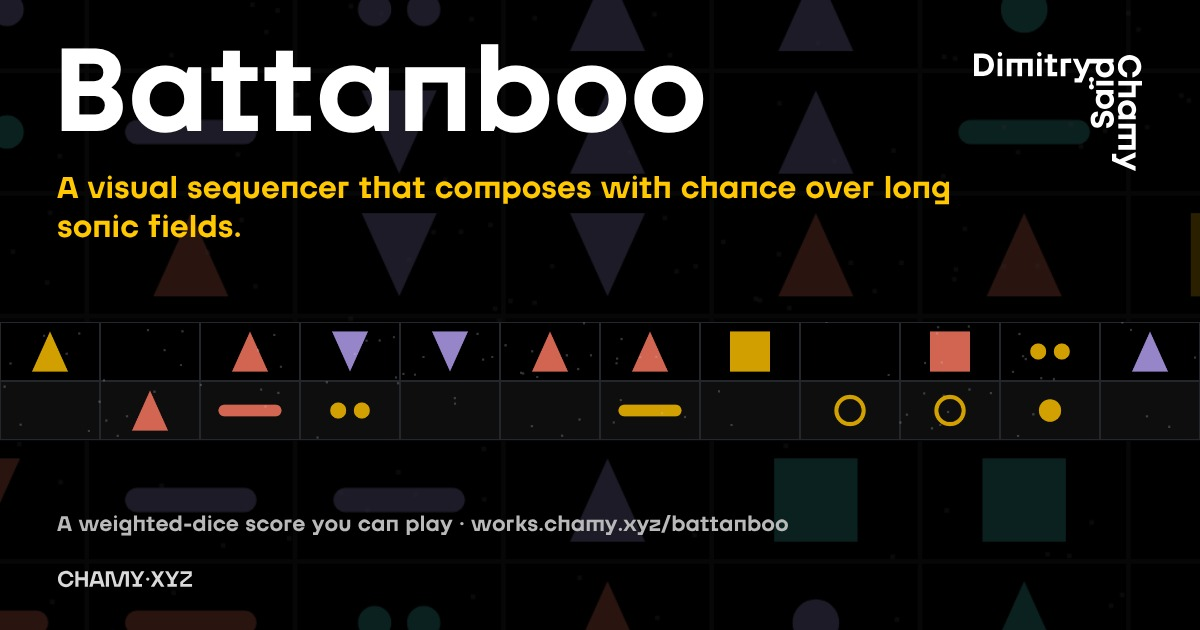
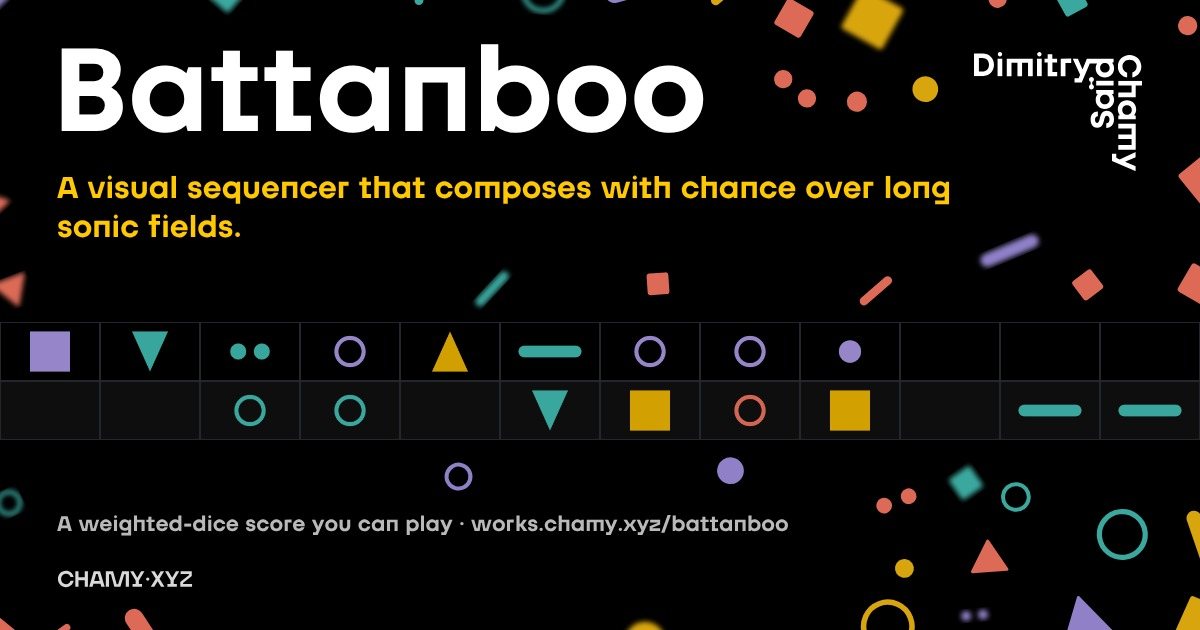
release Battanboo 0.5.4: share card marks
Claude-Session: https://claude.ai/code/session_01UTGHCa1JBBoFd9AGz3PbXb

diff --git a/battanboo/index.html b/battanboo/index.html
@@ -2,7 +2,7 @@
 <html lang="en"><head><meta charset="utf-8"><meta name="viewport" content="width=device-width,initial-scale=1,viewport-fit=cover"><style>:root{color-scheme:light;padding-top:env(safe-area-inset-top,0px);padding-bottom:env(safe-area-inset-bottom,0px)}body{margin:0;font:14px system-ui,sans-serif}img{max-width:100%}[hidden]{display:none!important}</style>
 <link rel="icon" href="icons/icon.svg" type="image/svg+xml"><link rel="icon" href="icons/icon-32.png" type="image/png" sizes="32x32"><link rel="apple-touch-icon" href="icons/icon-180.png"><link rel="manifest" href="manifest.webmanifest"><meta name="theme-color" content="#15171A">
 <meta name="description" content="A visual sequencer that composes with chance over long sonic fields."><meta property="og:type" content="website"><meta property="og:site_name" content="CHAMY·XYZ"><meta property="og:title" content="Battanboo"><meta property="og:description" content="A visual sequencer that composes with chance over long sonic fields."><meta property="og:url" content="https://works.chamy.xyz/battanboo/"><meta property="og:image" content="https://works.chamy.xyz/battanboo/og.jpg"><meta property="og:image:width" content="1200"><meta property="og:image:height" content="630"><meta property="og:image:alt" content="BATTANBOO in white beside the Dimitry Saïd Chamy namemark, and a score of coloured marks on a black grid"><meta name="twitter:card" content="summary_large_image"><meta name="twitter:title" content="Battanboo"><meta name="twitter:description" content="A visual sequencer that composes with chance over long sonic fields."><meta name="twitter:image" content="https://works.chamy.xyz/battanboo/og.jpg">
-<script>window.__BUILD__="20261112043413";window.__VERSION__="0.5.4";window.__NOTES__=[{"v": "0.5.4", "date": "11 Nov 2026", "items": [{"kind": "change", "text": "The share card (the picture shown when the link is shared) follows the layout of the Digital Broadsides: black, the name large at the top left, the line \"A visual sequencer that composes with chance over long sonic fields.\" in yellow, the corner namemark at the top right, a strip of the score itself across the middle, and the CHAMY·XYZ word at the bottom left. Behind it all, the marks of the score are blown up large and dim as a background."}, {"kind": "new", "text": "Field sounds can move on their own. Hold a field sound for its ring and tap Record, then drag it along any path. Let go, and that path becomes a movement whose length you set separately from how fast your hand went: a number of bars, beats or seconds (it starts at 4 bars). It can loop, go back and forth, or play once and stay. Smooth, Simplify and Steps shape it. The path shows as a faint line on the field."}, {"kind": "new", "text": "Random movement for field sounds: Wander in the ring, or Random in the sound's settings. The sound drifts in a closed random loop around where it was; New random shape rolls another, Range sets how far (small, medium, wide)."}, {"kind": "change", "text": "A field sound's ring is now the same halo ring as in Current: a Sound dot that opens its own ring (the pad, or any colour's sound), Settings, Record, Wander, Nudge, and in the lower left Duplicate (a copy beside it with the same sound, settings and movement) and in the lower right Take away."}, {"kind": "change", "text": "Clear all moved out of the sound's ring, because it affects every sound: it is a button beside the cube at the bottom of the field. Undo brings the sounds back."}, {"kind": "fix", "text": "Undo and redo now cover the field too. Putting a sound down, moving it, changing it, taking it away, or Clear all can each be stepped back and forward with the same buttons (and Ctrl or Cmd+Z) as the grid. Before, Clear all on the field had no way back."}, {"kind": "new", "text": "Field sounds are no longer one fixed pad. Hold a field sound (or right-click it) for the ring and tap the note (♪): choose its sound (the built-in pad, or the sound of any colour from the Sounds pane, held while you hold), and set its own level, wet, tone and pitch. \"New sounds start with this sound\" makes it the default; the same choice is in the Sounds pane under Field."}, {"kind": "new", "text": "The field has its own room. In the Sounds pane: Dry booth, Small room, Wooden hall, Cathedral, Cave, Open air, and sliders for Size, Decay, Damping and Wet."}, {"kind": "change", "text": "Muting the field fades it out over 4 seconds, and unmuting fades it back in, like the speaker. A sweep crosses the M button while it goes."}, {"kind": "change", "text": "Hold on the field is the same button as on the grid: the hand at the top right. Touching the field switches it to the closed hand (Hold) by itself, and touching the grid switches it back to the finger; tap it any time to choose one shot or Hold. The crossed infinity button is gone."}, {"kind": "fix", "text": "Turning Hold off on a field sound left no way to turn it back on, because the sound vanished when you let go. An infinity button with a slash now sits beside the cube whenever Hold is off; tap it to turn Hold on."}, {"kind": "change", "text": "On the field, left, near and right stay in the lower corners and middle, and the cube button sits centred just above \"near\", as big as the icons in the lower right menu."}, {"kind": "change", "text": "Wall and Floor are one cube button on the field. The cube shows the face you are looking at (the walls, or the floor) and a dot where you stand; tap it to switch."}, {"kind": "new", "text": "Hold and Clear moved onto the sounds. Hold a field sound, or right-click it, for the ring: nudge it, take it away, keep sounds held (the infinity mark), clear all."}, {"kind": "change", "text": "The MIDI button is now a MIDI plug symbol in the lower right menu, just under the clock. The text buttons by the stage edge and in the display footer are gone."}, {"kind": "change", "text": "The Wall, Floor, Hold and Clear switches on the field are a small quiet strip in the pad's bottom right corner, not a row of big pills. Wall and Floor are icons."}, {"kind": "fix", "text": "With more than four colours on a phone, the colour swatches beside the pad were 14 px slivers. They are now a two-column grid of real swatches."}, {"kind": "change", "text": "The separate Field display is gone. Its controls (what your finger plays, size of the marks, look of the effects) are now at the foot of Dice and air."}, {"kind": "fix", "text": "Every heads-up display now starts at the top. Before, the ones with less in them floated to the middle and the others sat at the top, with no reason you could see."}, {"kind": "new", "text": "MIDI learn now happens on the controls. Tap MIDI (bottom right of every heads-up display) and every control a knob can move gets a coloured shape. Tap a shape, move a knob: its number appears inside. Tap MIDI again and the mappings keep working; tap it again to see them, the unmapped ones left blank. × on a shape unmaps it."}, {"kind": "new", "text": "MIDI knows which controller is which. Switch several devices on or off in the learn panel, and two controllers can use the same knob numbers for different things. Mappings made before this still work, from any device."}, {"kind": "change", "text": "Form: Movements is now a large heading, and on a wide screen the movements sit in a right-hand column with everything else on the left."}, {"kind": "change", "text": "On a very large monitor the heads-up panes stay a centred column instead of stretching edge to edge, so sliders never run the whole width."}, {"kind": "fix", "text": "A held sound (Rubbed rim, Scraping glass, Sustain, Air, Crack run) could ring forever when Air was above zero, on the grid as well as on the play button, because its first grain was never given a length. Every grain now has one. Muting a colour also silences it at once, so a ringing sound stops when you press M."}, {"kind": "fix", "text": "The play button on a held sound (Rubbed rim, for one) no longer rings forever. It sounds for about a second and a half, then lets go."}, {"kind": "change", "text": "The line across each colour in the Mixer is now that colour's real sound, drawn live: a bell, a pad and a drum each have their own shape, and it follows the level you set. Before, it was one stock wave that only jumped when a note played."}, {"kind": "new", "text": "A play button to the left of each colour in the Mixer, the same size as the grid button above it. It sounds that colour at the level it is set to (so mute, solo and the crossfader count), a quick way to hear and balance the levels."}, {"kind": "change", "text": "The Dice and air pane and the Sounds pane use wide screens like the Play pane: the Weave controls beside the touch surfaces, and the colour sounds in two columns beside the sound sets."}, {"kind": "new", "text": "A MIDI pane in the heads-up display. Connect your controller, press Learn beside any control (the crossfader, volume, tone, air, space, morph, holds, repeat, tempo, the field or any colour's level), move a knob or slider once, and it is mapped. It shows the number of the last control you moved, so you can see what your device sends. One tap sets a MIDI Fighter Twister's 16 knobs to the main controls and the eight colours. Mappings are kept between visits. Needs Chrome on a Mac or a PC (Safari on iPhone and iPad has no MIDI)."}, {"kind": "change", "text": "The Mixer's MIDI button now opens that pane."}, {"kind": "change", "text": "The Play pane fits its space. Wide: the numbers and controls on the left, the four lines stacked on the right, each with more height to move in. Medium: controls on the left and Auto dice on the right, with the four lines as a 2 by 2 below. Narrow: one column with taller lines."}, {"kind": "fix", "text": "The small type in the Mixer (pad names and values, colour names and percentages) is larger and grows with the screen."}, {"kind": "fix", "text": "With the field switched off, its held notes stay visible as faint dots over the grid, so you can see where they are, as the grid's marks do when the grid is off. Taps still go to the grid."}, {"kind": "fix", "text": "Closing the field panel no longer drops the field's held voices. They keep sounding; Clear, or a double-tap on a note, lets them go."}, {"kind": "fix", "text": "The field's Wall, Floor, Hold and Clear buttons: the lit ones were unreadable (colour clash). They are readable now, smaller, in one row at the bottom middle of the field instead of the top left, and the field's left, low and right words sit above them. The space around the buttons no longer blocks taps on the cells."}, {"kind": "change", "text": "In the Mixer's crossfader, the Grid and Field percentages now sit at their own ends of the slider, beside their icons, instead of in the middle."}, {"kind": "new", "text": "Every colour has its own sound. With more than four colours, colours 5 to 8 are a drum kit (each row a different drum), a goblet (crystal), a rubbed rim and a spill of shards, so no sound repeats. Colours 1 to 4 stay the grid's four voices, unchanged. Your choice for each colour is now remembered between visits."}, {"kind": "new", "text": "In the Sounds pane, each colour has its own chooser. Sounds are grouped (voices of the grid; struck: one hit that rings away; held: sounds while you hold; banks: a different sound on each row), each with a plain line on what it is, and a + to bring in your own."}, {"kind": "fix", "text": "Reloading with more than four colours left colours 5 to 8 empty in the Mixer and playing colour 1's sound. They come back with their own sounds now."}, {"kind": "change", "text": "The crossfader's mode button is now a square icon (Blend, Fade, Free), the same size as M and S."}, {"kind": "fix", "text": "The coloured line across each Mixer row fades out under the name and the percentage, and the type has a soft dark edge, so both read clearly."}, {"kind": "change", "text": "Note names sit in the top-left corner of their cell. The names chooser is a dropdown like the scale and root: No names, Names on the first row, Names on every cell, Names on hover. It no longer changes width."}, {"kind": "change", "text": "The two frame grips are now just dots, set the same small distance inside each edge of the frame, with no handle shape behind them. The area you can grab is the same, and invisible."}, {"kind": "new", "text": "Each colour row in the Mixer now names its sound next to the number (Synth: pluck, Glass, Drums...), and the name follows when you change the sound."}, {"kind": "change", "text": "Wall, Floor, Hold and Clear now sit on the field itself, in its top-left corner, whenever the field is on, so you change the field where you see it. The Field pane keeps who you are touching, the floor pitch, the size of the marks and the look of the effects."}, {"kind": "change", "text": "The Free / Blend / Fade buttons at the foot of the Mixer are gone; the mode button beside the crossfader does their job."}, {"kind": "change", "text": "The scale, root and note names, which the grid and the field share, moved to the Mixer, on the right of the Free / Blend / Fade / MIDI row."}, {"kind": "new", "text": "The grid and field icons sit either side of the crossfader at the top of the Mixer. Tap one and the crossfader goes all the way to that side (that one at 100%, the other away); double-tap either to put it back in the middle. A button to the right of them chooses how the two cross: Blend (both full in the middle), Fade (opposed, 50 and 50 in the middle) or Free (no crossfade)."}, {"kind": "new", "text": "The A|B crossfader now also sits at the top of the Mixer, the same one as on the tempo bar, with the grid and field percentages in the middle. The colour bars and the Field bar dim as the crossfader turns them down, so you can see why something is quiet."}, {"kind": "fix", "text": "The Field bar had the same limit as the colour bars (it could only reach what the crossfader let through). It now runs its full length."}, {"kind": "fix", "text": "The four colour sliders (1 to 4) could not be pulled past about 13%. They were scaled by the A|B crossfader, so with it toward the field the whole slider shrank to what the crossfader let through. They now always run the full length and set the colour's own level; the crossfader still decides how much of it you hear."}, {"kind": "change", "text": "Tapping the Field button a second time while the field is in front dismisses the field and returns to the grid."}, {"kind": "fix", "text": "The rings, blooms and specks sat off to the side of the shapes that made them, in play and in Cinema, more so on a stretched frame. The effects layer was being squeezed to the grid's width; it now keeps its true size, so every effect is centred on its shape."}, {"kind": "fix", "text": "The play lines (the bars that sweep across the grid) now run on past its edge, across the whole screen, in play and in Cinema, as the rings and blooms do."}, {"kind": "fix", "text": "The rings and blooms that answer each sound are no longer cut off at the edge of the grid, in play and in Cinema: the effects layer reaches beyond the grid on every side, so they spread out freely."}, {"kind": "new", "text": "Cinema. In full screen, after five quiet seconds, the interface fades away and only the shapes, the play lines and the effects remain, on black, with the grid lines running on to the edges of the screen. Move the mouse, touch the screen or press a key and everything comes back (that first touch only wakes it; it plays nothing)."}, {"kind": "fix", "text": "The frame grips now sit on the frame itself, and the frame can be stretched to the full width of a large screen. Full screen no longer inherits a squeezed frame (that made the grid tall and pushed the bars off the screen); it always uses the whole screen."}, {"kind": "new", "text": "On a wide screen (900 px and up) a grip sits on each side of the frame. Drag either one to stretch or squeeze the frame (it stays centred, from 640 px up to the full width); double-click for full width; with a grip focused, the arrow keys step it, Home is narrowest and End is full width. The width is remembered."}, {"kind": "new", "text": "With the HUD open, tap the Grid or Field button again to close it, or tap the bare background outside the frame (a drag does not close it)."}, {"kind": "change", "text": "The Weave preset in use is ringed in bright yellow (a border, not a fill)."}, {"kind": "fix", "text": "The opening's shapes are sharp by the time they stop, and it is the interface that comes into focus behind them, from blurred to sharp as it fades in."}, {"kind": "fix", "text": "No more sideways jump when the real shapes take over: the opening's canvas is now measured from its own box, so on screens with a scrollbar it lines up with the grid exactly."}]}]</script>
+<script>window.__BUILD__="20261112043548";window.__VERSION__="0.5.4";window.__NOTES__=[{"v": "0.5.4", "date": "11 Nov 2026", "items": [{"kind": "change", "text": "The share card (the picture shown when the link is shared) follows the layout of the Digital Broadsides: black, the name large at the top left, the line \"A visual sequencer that composes with chance over long sonic fields.\" in yellow, the corner namemark at the top right, a strip of the score itself across the middle, and the CHAMY·XYZ word at the bottom left. Around the words, the marks of the score are scattered and turned, some soft, as on the launch cover."}, {"kind": "new", "text": "Field sounds can move on their own. Hold a field sound for its ring and tap Record, then drag it along any path. Let go, and that path becomes a movement whose length you set separately from how fast your hand went: a number of bars, beats or seconds (it starts at 4 bars). It can loop, go back and forth, or play once and stay. Smooth, Simplify and Steps shape it. The path shows as a faint line on the field."}, {"kind": "new", "text": "Random movement for field sounds: Wander in the ring, or Random in the sound's settings. The sound drifts in a closed random loop around where it was; New random shape rolls another, Range sets how far (small, medium, wide)."}, {"kind": "change", "text": "A field sound's ring is now the same halo ring as in Current: a Sound dot that opens its own ring (the pad, or any colour's sound), Settings, Record, Wander, Nudge, and in the lower left Duplicate (a copy beside it with the same sound, settings and movement) and in the lower right Take away."}, {"kind": "change", "text": "Clear all moved out of the sound's ring, because it affects every sound: it is a button beside the cube at the bottom of the field. Undo brings the sounds back."}, {"kind": "fix", "text": "Undo and redo now cover the field too. Putting a sound down, moving it, changing it, taking it away, or Clear all can each be stepped back and forward with the same buttons (and Ctrl or Cmd+Z) as the grid. Before, Clear all on the field had no way back."}, {"kind": "new", "text": "Field sounds are no longer one fixed pad. Hold a field sound (or right-click it) for the ring and tap the note (♪): choose its sound (the built-in pad, or the sound of any colour from the Sounds pane, held while you hold), and set its own level, wet, tone and pitch. \"New sounds start with this sound\" makes it the default; the same choice is in the Sounds pane under Field."}, {"kind": "new", "text": "The field has its own room. In the Sounds pane: Dry booth, Small room, Wooden hall, Cathedral, Cave, Open air, and sliders for Size, Decay, Damping and Wet."}, {"kind": "change", "text": "Muting the field fades it out over 4 seconds, and unmuting fades it back in, like the speaker. A sweep crosses the M button while it goes."}, {"kind": "change", "text": "Hold on the field is the same button as on the grid: the hand at the top right. Touching the field switches it to the closed hand (Hold) by itself, and touching the grid switches it back to the finger; tap it any time to choose one shot or Hold. The crossed infinity button is gone."}, {"kind": "fix", "text": "Turning Hold off on a field sound left no way to turn it back on, because the sound vanished when you let go. An infinity button with a slash now sits beside the cube whenever Hold is off; tap it to turn Hold on."}, {"kind": "change", "text": "On the field, left, near and right stay in the lower corners and middle, and the cube button sits centred just above \"near\", as big as the icons in the lower right menu."}, {"kind": "change", "text": "Wall and Floor are one cube button on the field. The cube shows the face you are looking at (the walls, or the floor) and a dot where you stand; tap it to switch."}, {"kind": "new", "text": "Hold and Clear moved onto the sounds. Hold a field sound, or right-click it, for the ring: nudge it, take it away, keep sounds held (the infinity mark), clear all."}, {"kind": "change", "text": "The MIDI button is now a MIDI plug symbol in the lower right menu, just under the clock. The text buttons by the stage edge and in the display footer are gone."}, {"kind": "change", "text": "The Wall, Floor, Hold and Clear switches on the field are a small quiet strip in the pad's bottom right corner, not a row of big pills. Wall and Floor are icons."}, {"kind": "fix", "text": "With more than four colours on a phone, the colour swatches beside the pad were 14 px slivers. They are now a two-column grid of real swatches."}, {"kind": "change", "text": "The separate Field display is gone. Its controls (what your finger plays, size of the marks, look of the effects) are now at the foot of Dice and air."}, {"kind": "fix", "text": "Every heads-up display now starts at the top. Before, the ones with less in them floated to the middle and the others sat at the top, with no reason you could see."}, {"kind": "new", "text": "MIDI learn now happens on the controls. Tap MIDI (bottom right of every heads-up display) and every control a knob can move gets a coloured shape. Tap a shape, move a knob: its number appears inside. Tap MIDI again and the mappings keep working; tap it again to see them, the unmapped ones left blank. × on a shape unmaps it."}, {"kind": "new", "text": "MIDI knows which controller is which. Switch several devices on or off in the learn panel, and two controllers can use the same knob numbers for different things. Mappings made before this still work, from any device."}, {"kind": "change", "text": "Form: Movements is now a large heading, and on a wide screen the movements sit in a right-hand column with everything else on the left."}, {"kind": "change", "text": "On a very large monitor the heads-up panes stay a centred column instead of stretching edge to edge, so sliders never run the whole width."}, {"kind": "fix", "text": "A held sound (Rubbed rim, Scraping glass, Sustain, Air, Crack run) could ring forever when Air was above zero, on the grid as well as on the play button, because its first grain was never given a length. Every grain now has one. Muting a colour also silences it at once, so a ringing sound stops when you press M."}, {"kind": "fix", "text": "The play button on a held sound (Rubbed rim, for one) no longer rings forever. It sounds for about a second and a half, then lets go."}, {"kind": "change", "text": "The line across each colour in the Mixer is now that colour's real sound, drawn live: a bell, a pad and a drum each have their own shape, and it follows the level you set. Before, it was one stock wave that only jumped when a note played."}, {"kind": "new", "text": "A play button to the left of each colour in the Mixer, the same size as the grid button above it. It sounds that colour at the level it is set to (so mute, solo and the crossfader count), a quick way to hear and balance the levels."}, {"kind": "change", "text": "The Dice and air pane and the Sounds pane use wide screens like the Play pane: the Weave controls beside the touch surfaces, and the colour sounds in two columns beside the sound sets."}, {"kind": "new", "text": "A MIDI pane in the heads-up display. Connect your controller, press Learn beside any control (the crossfader, volume, tone, air, space, morph, holds, repeat, tempo, the field or any colour's level), move a knob or slider once, and it is mapped. It shows the number of the last control you moved, so you can see what your device sends. One tap sets a MIDI Fighter Twister's 16 knobs to the main controls and the eight colours. Mappings are kept between visits. Needs Chrome on a Mac or a PC (Safari on iPhone and iPad has no MIDI)."}, {"kind": "change", "text": "The Mixer's MIDI button now opens that pane."}, {"kind": "change", "text": "The Play pane fits its space. Wide: the numbers and controls on the left, the four lines stacked on the right, each with more height to move in. Medium: controls on the left and Auto dice on the right, with the four lines as a 2 by 2 below. Narrow: one column with taller lines."}, {"kind": "fix", "text": "The small type in the Mixer (pad names and values, colour names and percentages) is larger and grows with the screen."}, {"kind": "fix", "text": "With the field switched off, its held notes stay visible as faint dots over the grid, so you can see where they are, as the grid's marks do when the grid is off. Taps still go to the grid."}, {"kind": "fix", "text": "Closing the field panel no longer drops the field's held voices. They keep sounding; Clear, or a double-tap on a note, lets them go."}, {"kind": "fix", "text": "The field's Wall, Floor, Hold and Clear buttons: the lit ones were unreadable (colour clash). They are readable now, smaller, in one row at the bottom middle of the field instead of the top left, and the field's left, low and right words sit above them. The space around the buttons no longer blocks taps on the cells."}, {"kind": "change", "text": "In the Mixer's crossfader, the Grid and Field percentages now sit at their own ends of the slider, beside their icons, instead of in the middle."}, {"kind": "new", "text": "Every colour has its own sound. With more than four colours, colours 5 to 8 are a drum kit (each row a different drum), a goblet (crystal), a rubbed rim and a spill of shards, so no sound repeats. Colours 1 to 4 stay the grid's four voices, unchanged. Your choice for each colour is now remembered between visits."}, {"kind": "new", "text": "In the Sounds pane, each colour has its own chooser. Sounds are grouped (voices of the grid; struck: one hit that rings away; held: sounds while you hold; banks: a different sound on each row), each with a plain line on what it is, and a + to bring in your own."}, {"kind": "fix", "text": "Reloading with more than four colours left colours 5 to 8 empty in the Mixer and playing colour 1's sound. They come back with their own sounds now."}, {"kind": "change", "text": "The crossfader's mode button is now a square icon (Blend, Fade, Free), the same size as M and S."}, {"kind": "fix", "text": "The coloured line across each Mixer row fades out under the name and the percentage, and the type has a soft dark edge, so both read clearly."}, {"kind": "change", "text": "Note names sit in the top-left corner of their cell. The names chooser is a dropdown like the scale and root: No names, Names on the first row, Names on every cell, Names on hover. It no longer changes width."}, {"kind": "change", "text": "The two frame grips are now just dots, set the same small distance inside each edge of the frame, with no handle shape behind them. The area you can grab is the same, and invisible."}, {"kind": "new", "text": "Each colour row in the Mixer now names its sound next to the number (Synth: pluck, Glass, Drums...), and the name follows when you change the sound."}, {"kind": "change", "text": "Wall, Floor, Hold and Clear now sit on the field itself, in its top-left corner, whenever the field is on, so you change the field where you see it. The Field pane keeps who you are touching, the floor pitch, the size of the marks and the look of the effects."}, {"kind": "change", "text": "The Free / Blend / Fade buttons at the foot of the Mixer are gone; the mode button beside the crossfader does their job."}, {"kind": "change", "text": "The scale, root and note names, which the grid and the field share, moved to the Mixer, on the right of the Free / Blend / Fade / MIDI row."}, {"kind": "new", "text": "The grid and field icons sit either side of the crossfader at the top of the Mixer. Tap one and the crossfader goes all the way to that side (that one at 100%, the other away); double-tap either to put it back in the middle. A button to the right of them chooses how the two cross: Blend (both full in the middle), Fade (opposed, 50 and 50 in the middle) or Free (no crossfade)."}, {"kind": "new", "text": "The A|B crossfader now also sits at the top of the Mixer, the same one as on the tempo bar, with the grid and field percentages in the middle. The colour bars and the Field bar dim as the crossfader turns them down, so you can see why something is quiet."}, {"kind": "fix", "text": "The Field bar had the same limit as the colour bars (it could only reach what the crossfader let through). It now runs its full length."}, {"kind": "fix", "text": "The four colour sliders (1 to 4) could not be pulled past about 13%. They were scaled by the A|B crossfader, so with it toward the field the whole slider shrank to what the crossfader let through. They now always run the full length and set the colour's own level; the crossfader still decides how much of it you hear."}, {"kind": "change", "text": "Tapping the Field button a second time while the field is in front dismisses the field and returns to the grid."}, {"kind": "fix", "text": "The rings, blooms and specks sat off to the side of the shapes that made them, in play and in Cinema, more so on a stretched frame. The effects layer was being squeezed to the grid's width; it now keeps its true size, so every effect is centred on its shape."}, {"kind": "fix", "text": "The play lines (the bars that sweep across the grid) now run on past its edge, across the whole screen, in play and in Cinema, as the rings and blooms do."}, {"kind": "fix", "text": "The rings and blooms that answer each sound are no longer cut off at the edge of the grid, in play and in Cinema: the effects layer reaches beyond the grid on every side, so they spread out freely."}, {"kind": "new", "text": "Cinema. In full screen, after five quiet seconds, the interface fades away and only the shapes, the play lines and the effects remain, on black, with the grid lines running on to the edges of the screen. Move the mouse, touch the screen or press a key and everything comes back (that first touch only wakes it; it plays nothing)."}, {"kind": "fix", "text": "The frame grips now sit on the frame itself, and the frame can be stretched to the full width of a large screen. Full screen no longer inherits a squeezed frame (that made the grid tall and pushed the bars off the screen); it always uses the whole screen."}, {"kind": "new", "text": "On a wide screen (900 px and up) a grip sits on each side of the frame. Drag either one to stretch or squeeze the frame (it stays centred, from 640 px up to the full width); double-click for full width; with a grip focused, the arrow keys step it, Home is narrowest and End is full width. The width is remembered."}, {"kind": "new", "text": "With the HUD open, tap the Grid or Field button again to close it, or tap the bare background outside the frame (a drag does not close it)."}, {"kind": "change", "text": "The Weave preset in use is ringed in bright yellow (a border, not a fill)."}, {"kind": "fix", "text": "The opening's shapes are sharp by the time they stop, and it is the interface that comes into focus behind them, from blurred to sharp as it fades in."}, {"kind": "fix", "text": "No more sideways jump when the real shapes take over: the opening's canvas is now measured from its own box, so on screens with a scrollbar it lines up with the grid exactly."}]}]</script>
 <title>Battanboo</title>
 <!-- v69: renamed from Battanbou. v71: corner all-switches (top left play, bottom right locks); Index uses the kit sections.js -->
 <meta name="claude:viewport-fit-sides" content="cover">
